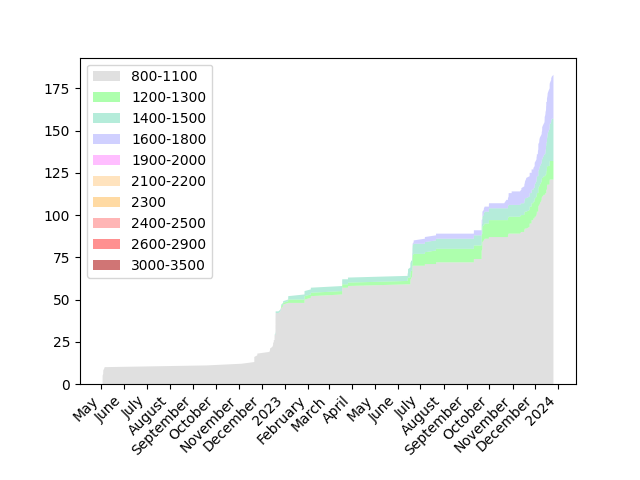
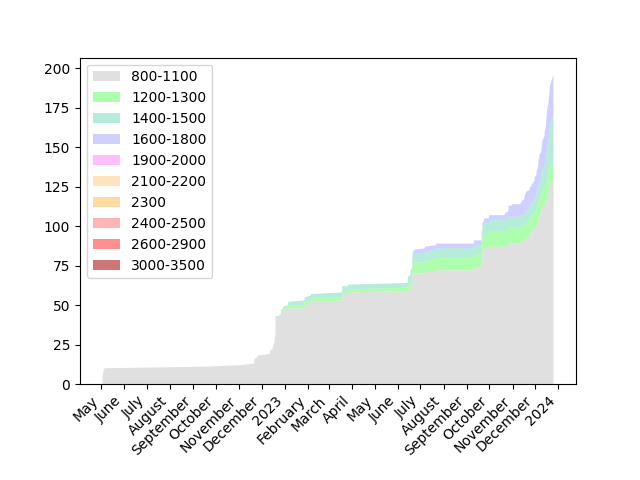
Archive: Update

diff --git a/Archive/(B) Begginer's Zelda.cpp b/Archive/(B) Begginer's Zelda.cpp
@@ -6,7 +6,7 @@
 // Start: 16-12-2023 08:39:43
 // Duration: 0:42:16
 // End: 2023-12-16 09:21:59
-// Rating: None
+// Rating: 1100
 #include <bits/stdc++.h>
 using namespace std;
 

diff --git a/Archive/(B) Collecting Game.cpp b/Archive/(B) Collecting Game.cpp
@@ -6,7 +6,7 @@
 // Start: 09-12-2023 11:15:18
 // Duration: 0:04:51
 // End: 2023-12-09 11:20:09
-// Rating: None
+// Rating: 1100
 #include <bits/stdc++.h>
 using namespace std;
 

diff --git a/Archive/(B) Erase First or Second Letter.cpp b/Archive/(B) Erase First or Second Letter.cpp
@@ -6,7 +6,7 @@
 // Start: 24-12-2023 08:48:17
 // Duration: 0:25:40
 // End: 2023-12-24 09:13:57
-// Rating: None
+// Rating: 1100
 #include <bits/stdc++.h>
 using namespace std;
 

diff --git a/Archive/(B) Swap and Delete.cpp b/Archive/(B) Swap and Delete.cpp
@@ -6,7 +6,7 @@
 // Start: 18-12-2023 20:05:02
 // Duration: 0:48:01
 // End: 2023-12-18 20:53:03
-// Rating: None
+// Rating: 1000
 #include <bits/stdc++.h>
 using namespace std;
 

diff --git a/Archive/(C) Array Game.cpp b/Archive/(C) Array Game.cpp
@@ -6,7 +6,7 @@
 // Start: 09-12-2023 11:20:43
 // Duration: 0:43:04
 // End: 2023-12-09 12:03:47
-// Rating: None
+// Rating: 1400
 #include <bits/stdc++.h>
 
 #include <algorithm>

diff --git a/Archive/(C) Game with Multiset.cpp b/Archive/(C) Game with Multiset.cpp
@@ -6,7 +6,7 @@
 // Start: 18-12-2023 20:53:26
 // Duration: 0:18:46
 // End: 2023-12-18 21:12:12
-// Rating: None
+// Rating: 1300
 #include <bits/stdc++.h>
 using namespace std;
 

diff --git a/Archive/(C) Largest Subsequence.cpp b/Archive/(C) Largest Subsequence.cpp
@@ -6,7 +6,7 @@
 // Start: 16-12-2023 09:22:44
 // Duration: 1:07:57
 // End: 2023-12-16 10:30:41
-// Rating: None
+// Rating: 1400
 #include <bits/stdc++.h>
 using namespace std;
 

diff --git a/Archive/(C) Quests.cpp b/Archive/(C) Quests.cpp
@@ -6,7 +6,7 @@
 // Start: 19-12-2023 16:52:56
 // Duration: 0:16:52
 // End: 2023-12-19 17:09:48
-// Rating: None
+// Rating: 1100
 #include <bits/stdc++.h>
 using namespace std;
 

diff --git a/Archive/(C) Watering an Array.cpp b/Archive/(C) Watering an Array.cpp
@@ -6,7 +6,7 @@
 // Start: 24-12-2023 10:12:39
 // Duration: 3:51:01
 // End: 2023-12-24 14:03:40
-// Rating: None
+// Rating: 1600
 #include <bits/stdc++.h>
 using namespace std;
 

diff --git a/Archive/(D) Three Activities.cpp b/Archive/(D) Three Activities.cpp
@@ -6,7 +6,7 @@
 // Start: 19-12-2023 17:10:58
 // Duration: 0:11:46
 // End: 2023-12-19 17:22:44
-// Rating: None
+// Rating: 1200
 #include <bits/stdc++.h>
 using namespace std;
 

diff --git a/Archive/(E1) Game with Marbles (Easy Version).cpp b/Archive/(E1) Game with Marbles (Easy Version).cpp
@@ -6,7 +6,7 @@
 // Start: 20-12-2023 12:46:57
 // Duration: 2:10:46
 // End: 2023-12-20 14:57:43
-// Rating: None
+// Rating: 1400
 #include <bits/stdc++.h>
 using namespace std;
 

diff --git a/Archive/(E2) Game with Marbles (Hard Version).cpp b/Archive/(E2) Game with Marbles (Hard Version).cpp
@@ -6,7 +6,7 @@
 // Start: 20-12-2023 12:46:57
 // Duration: 2:11:07
 // End: 2023-12-20 14:58:04
-// Rating: None
+// Rating: 1400
 #include <bits/stdc++.h>
 using namespace std;
 
